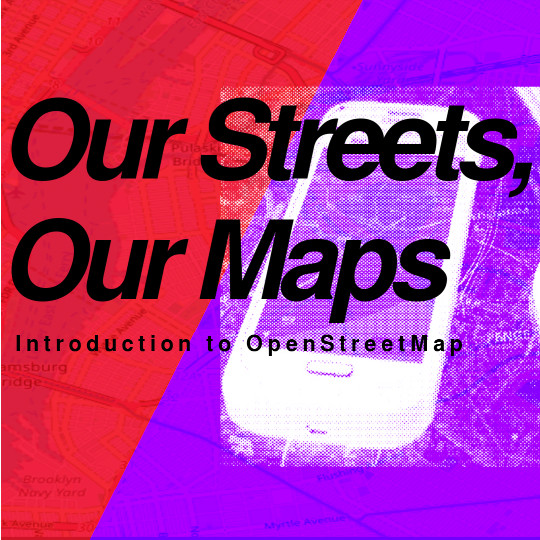
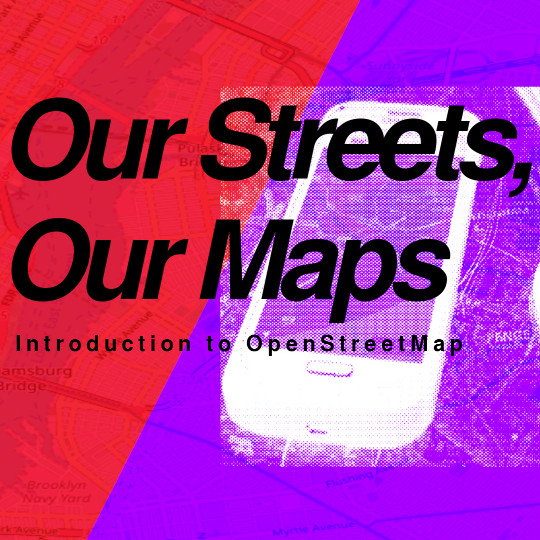
Continue reducing the size of images, fix a few image glitches.

diff --git a/_workshops/Computer Language Foundations: Command Line Basics.md b/_workshops/Computer Language Foundations: Command Line Basics.md
@@ -1,6 +1,6 @@
 ---
 title: "Computer Language Foundations: Command Line Basics"
-image: static/images/workshop.computer-language-foundations-command-line-basics.square.png
+image: static/images/workshop.computer-language-foundations-command-line-basics.square.jpg
 ---
 
 To be useful, every computer must offer some way for you to control it. Generically, the way you can control a computer is called a *user interface* because it allows you (the user) to interact with (that is, &ldquo;to interface with&rdquo;) the computer system. Most people may already be familiar with *Graphical User Interfaces* or GUIs, which are the buttons, windows, and other controls that you can point-and-click on, but this way of controlling a computer comes with severe limitations. Chief among these is the fact that you are limited to using only one tip of one finger on one of your hands (called your *pointer* or *mouse cursor*) and, worse, you have no access to anything outside of your immediate reach. In a GUI, if you cannot see it or touch it with the mouse, you cannot manipulate it.

diff --git a/_workshops/Over The Air: Community Wireless and Mesh Networking Primer.md b/_workshops/Over The Air: Community Wireless and Mesh Networking Primer.md
@@ -1,6 +1,6 @@
 ---
 title: "Over The Air: Community Wireless and Mesh Networking Primer"
-image: static/images/workshop.over-the-air-community-wireless-and-mesh-networking-primer.square.png
+image: static/images/workshop.over-the-air-community-wireless-and-mesh-networking-primer.square.jpg
 ---
 
 For years, grassroots organizations and communities around the world have been laying the foundation for a more free and open Internet. From Detroit to Baltimore to Santa Fe, and of course right here in New York City, activists and engineers have been pushing for community-owned and community-operated Internet access. And although Internet access is important in its own right, these same efforts to create a &ldquo;rooftop-to-rooftop&rdquo; computer network between neighbors can also be used for more local intranets, which are automonously governed networks completely independent of the globalized Internet.

diff --git a/_events/workshop-2020-03-03-securing-our-servers-basic-network-operations-for-autonomous-communities.md b/_events/workshop-2020-03-03-securing-our-servers-basic-network-operations-for-autonomous-communities.md
@@ -6,7 +6,7 @@ date: *startDate
 location: Remote
 payment_processor: paypal
 webinar_id: 18
-image: static/images/workshop.securing-our-servers-basic-network-operations-for-autonomous-communities.rectangle.png
+image: static/images/workshop.securing-our-servers-basic-network-operations-for-autonomous-communities.rectangle.jpg
 offers:
     - name: Privacy Defender Webinar Ticket
       description: Privacy Defender tickets are the recommended ticket type for those who can afford to help fund the digital security and online privacy advocacy communities with their financial resources, are attending the workshop with the support of their employers or other backers, or have other resources available to them. Purchasing tickets at this level makes it possible for us to offer reduced price tickets to those in need.

diff --git a/_events/workshop-2020-05-08-securing-our-servers-basic-network-operations-for-autonomous-communities.md b/_events/workshop-2020-05-08-securing-our-servers-basic-network-operations-for-autonomous-communities.md
@@ -6,7 +6,7 @@ date: *startDate
 location: Remote
 payment_processor: paypal
 webinar_id: 45
-image: static/images/workshop.securing-our-servers-basic-network-operations-for-autonomous-communities.rectangle.png
+image: static/images/workshop.securing-our-servers-basic-network-operations-for-autonomous-communities.rectangle.jpg
 offers:
     - name: Privacy Defender Webinar Ticket
       description: Privacy Defender tickets are the recommended ticket type for those who can afford to help fund the digital security and online privacy advocacy communities with their financial resources, are attending the workshop with the support of their employers or other backers, or have other resources available to them. Purchasing tickets at this level makes it possible for us to offer reduced price tickets to those in need.

diff --git a/_events/workshop-2020-02-13-securing-our-servers-basic-network-operations-for-autonomous-communities.md b/_events/workshop-2020-02-13-securing-our-servers-basic-network-operations-for-autonomous-communities.md
@@ -6,7 +6,7 @@ date: *startDate
 location: Remote
 payment_processor: paypal
 webinar_id: 7
-image: static/images/workshop.securing-our-servers-basic-network-operations-for-autonomous-communities.rectangle.png
+image: static/images/workshop.securing-our-servers-basic-network-operations-for-autonomous-communities.rectangle.jpg
 offers:
     - name: Privacy Defender Webinar Ticket
       description: Privacy Defender tickets are the recommended ticket type for those who can afford to help fund the digital security and online privacy advocacy communities with their financial resources, are attending the workshop with the support of their employers or other backers, or have other resources available to them. Purchasing tickets at this level makes it possible for us to offer reduced price tickets to those in need.

diff --git a/_workshops/Writing with Blue Fire: Shell Scripting for Beginners.md b/_workshops/Writing with Blue Fire: Shell Scripting for Beginners.md
@@ -1,6 +1,6 @@
 ---
 title: "Writing with Blue Fire: Shell Scripting for Beginners"
-image: static/images/workshop.writing-with-blue-fire-shell-scripting-for-beginners.square.png
+image: static/images/workshop.writing-with-blue-fire-shell-scripting-for-beginners.square.jpg
 ---
 
 At their core, digital computers are very complex writing instruments. Like pen and paper, they allow us to record our thoughts, dreams, and desires for later review. Unlike pen and paper, they allow us to do this at the speed of electricity and at a scale never before imagined possible, and their ability to directly manipulate the physical world through servomotors, industrial control systems, biomedical devices, and other robotic prosthesis means they can potentially supercharging every facet of our humanity.

diff --git a/_events/workshop-2020-06-03-writing-with-blue-fire-shell-scripting-for-beginners.md b/_events/workshop-2020-06-03-writing-with-blue-fire-shell-scripting-for-beginners.md
@@ -6,7 +6,7 @@ date: *startDate
 location: Remote
 payment_processor: paypal
 webinar_id: 54
-image: static/images/workshop.writing-with-blue-fire-shell-scripting-for-beginners.rectangle.png
+image: static/images/workshop.writing-with-blue-fire-shell-scripting-for-beginners.rectangle.jpg
 offers:
     - name: Privacy Defender Webinar Ticket
       description: Privacy Defender tickets are the recommended ticket type for those who can afford to help fund the digital security and online privacy advocacy communities with their financial resources, are attending the workshop with the support of their employers or other backers, or have other resources available to them. Purchasing tickets at this level makes it possible for us to offer reduced price tickets to those in need.

diff --git a/_events/workshop-2020-03-08-computer-language-foundations-command-line-basics.md b/_events/workshop-2020-03-08-computer-language-foundations-command-line-basics.md
@@ -6,7 +6,7 @@ date: *startDate
 location: Remote
 payment_processor: paypal
 webinar_id: 20
-image: static/images/workshop.computer-language-foundations-command-line-basics.rectangle.png
+image: static/images/workshop.computer-language-foundations-command-line-basics.rectangle.jpg
 offers:
     - name: Privacy Defender Webinar Ticket
       description: Privacy Defender tickets are the recommended ticket type for those who can afford to help fund the digital security and online privacy advocacy communities with their financial resources, are attending the workshop with the support of their employers or other backers, or have other resources available to them. Purchasing tickets at this level makes it possible for us to offer reduced price tickets to those in need.

diff --git a/_events/workshop-2020-04-18-computer-language-foundations-command-line-basics.md b/_events/workshop-2020-04-18-computer-language-foundations-command-line-basics.md
@@ -6,7 +6,7 @@ date: *startDate
 location: Remote
 payment_processor: paypal
 webinar_id: 35
-image: static/images/workshop.computer-language-foundations-command-line-basics.rectangle.png
+image: static/images/workshop.computer-language-foundations-command-line-basics.rectangle.jpg
 offers:
     - name: Privacy Defender Webinar Ticket
       description: Privacy Defender tickets are the recommended ticket type for those who can afford to help fund the digital security and online privacy advocacy communities with their financial resources, are attending the workshop with the support of their employers or other backers, or have other resources available to them. Purchasing tickets at this level makes it possible for us to offer reduced price tickets to those in need.

diff --git a/_events/workshop-2020-06-01-computer-language-foundations-command-line-basics.md b/_events/workshop-2020-06-01-computer-language-foundations-command-line-basics.md
@@ -6,7 +6,7 @@ date: *startDate
 location: Remote
 payment_processor: paypal
 webinar_id: 53
-image: static/images/workshop.computer-language-foundations-command-line-basics.rectangle.png
+image: static/images/workshop.computer-language-foundations-command-line-basics.rectangle.jpg
 offers:
     - name: Privacy Defender Webinar Ticket
       description: Privacy Defender tickets are the recommended ticket type for those who can afford to help fund the digital security and online privacy advocacy communities with their financial resources, are attending the workshop with the support of their employers or other backers, or have other resources available to them. Purchasing tickets at this level makes it possible for us to offer reduced price tickets to those in need.

diff --git a/_workshops/Securing Our Servers: Basic Network Operations for Autonomous Communities.md b/_workshops/Securing Our Servers: Basic Network Operations for Autonomous Communities.md
@@ -1,6 +1,6 @@
 ---
 title: "Securing Our Servers: Basic Network Operations for Autonomous Communities"
-image: static/images/workshop.securing-our-servers-basic-network-operations-for-autonomous-communities.square.png
+image: static/images/workshop.securing-our-servers-basic-network-operations-for-autonomous-communities.square.jpg
 persona_matrix:
     - 2 # Defenders
     - 2 # Attackers
